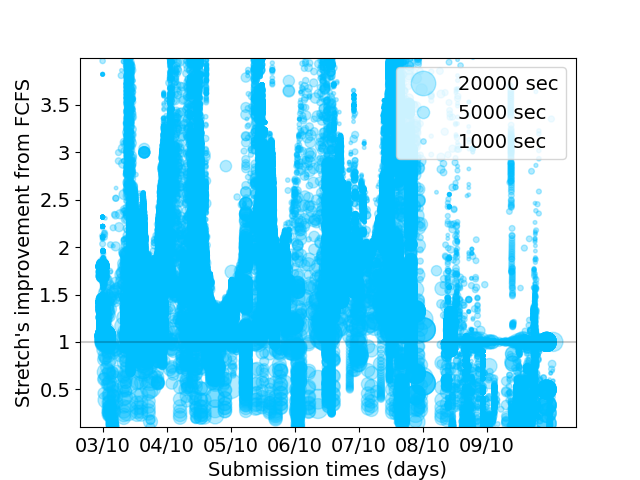
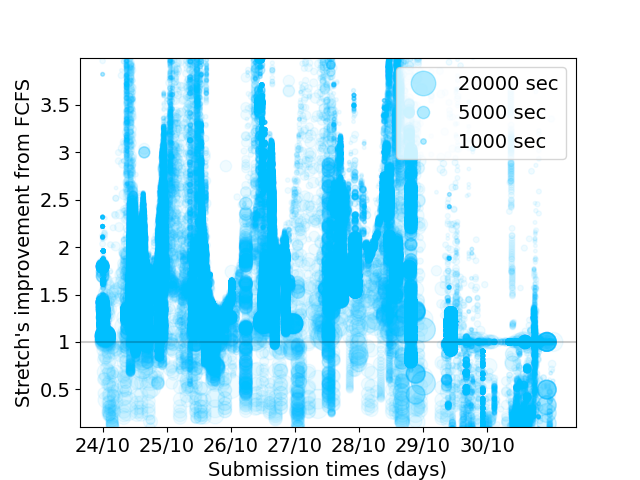
lower alpha and a few minor corrections in the paper

Changed region(s): [[0.0938, 0.125, 0.9062, 0.9688], [0.6875, 0.125, 0.7188, 0.1562]]

diff --git a/ICPP/batch-scheduling-paper.tex b/ICPP/batch-scheduling-paper.tex
@@ -50,13 +50,13 @@
 \newcommand{\evict}{\ensuremath{\mathcal{V}}\xspace}
 \newcommand{\nbloads}{\ensuremath{\mathit{\mathit{Loads}}}\xspace}
 \newcommand{\live}{\ensuremath{L}\xspace}
-\newcommand{\us}{\ensuremath{\mathit{user's~session}}\xspace}
+\newcommand{\us}{\ensuremath{\mathit{user~session}}\xspace}
 \renewcommand{\algorithmicrequire}{\textbf{Input:}}
 \renewcommand{\algorithmicensure}{\textbf{Output:}}
 
 \begin{document}
 
-\title{Locality-aware batch scheduling of I/O intensive workloads\todo[inline]{Max: Same title?}}
+\title{Locality-aware batch scheduling of I/O intensive workloads}
 
 \begin{abstract}
   Clusters make use of workload schedulers such as
@@ -83,7 +83,7 @@
   keeping data in local memory between successive jobs and using data
   locality information to schedule jobs allows a reduction in job
   waiting time and a drastic decrease in the amount of data transfers.
-\todo[inline]{Max: Can we keep the same abstract?}
+
   %%%% Longer version below:
   %   Clusters and supercomputers make use of workload schedulers such as
   % the Slurm Workload Manager or OAR to allocate computing jobs onto nodes. These schedulers
@@ -404,7 +404,7 @@ The stretch represents the slow-down of a job due to sharing the
 platform with other jobs. Considering the stretch
 allows to better aggregate performance from small and large jobs.
 
-\todo[inline]{Max: I define \us here (do we want a macro like that for it?):}
+\todo[inline]{Max: Do we want the macro \us for user sessions?}
 \rev{
 Finally, what is important for a user is that all the jobs he has submitted at once
 are finished as soon as possible. Thus we introduce the notion of \us. A \us is the sum of the stretch of jobs submitted by a user over a short period of time. It is the stretch of each \us that will be used in the Figures of Section~\ref{sec.evaluations}.
@@ -755,7 +755,7 @@ it is very unlikely that two users using the same file submit jobs at the same t
 
 We consider that these jobs are dedicated to processing their input
 file. Hence, the more cores the job requests, 
-the larger its input file. This allows to compute the size of files as follows:
+the larger its input file. This allows to estimate the size of files as follows:
 $$\size(\file(i)) =\frac{\core(J_i)}{20} \times 128GB$$
 \rev{Indeed, if a user needs 128GB of memory for example, but only requests 1 core out of the 20 available, he is blocking the machine for all the other users. Consequently, it's more efficient for a user who needs all the memory of a machine to reserves all the cores of the machine. And similarly if a user needs a fraction of the memory, he can reserves a fraction of the machine's cores. 
 A node can thus contain multiple different files. Thus the scheduling strategy cannot be 

diff --git a/MBSS/src/plot_queue_times.py b/MBSS/src/plot_queue_times.py
@@ -88,8 +88,14 @@ else:
 	ax.set_ylim(0.1,4)
 
 ax.set_xticks([job_list_algo_reference[0].subtime, job_list_algo_reference[0].subtime + 86400, job_list_algo_reference[0].subtime + 86400*2, job_list_algo_reference[0].subtime + 86400*3, job_list_algo_reference[0].subtime + 86400*4, job_list_algo_reference[0].subtime + 86400*5, job_list_algo_reference[0].subtime + 86400*6])
-ax.set_xticklabels(["03/10", "04/10", "05/10", "06/10", "07/10", "08/10", "09/10"], fontsize=font_size)
 
+if sys.argv[5] == "2022-10-24->2022-10-30_V10000_anonymous":
+	ax.set_xticklabels(["24/10", "25/10", "26/10", "27/10", "28/10", "29/10", "30/10"], fontsize=font_size)
+elif sys.argv[5] == "2022-10-03->2022-10-09_V10000_anonymous":
+	ax.set_xticklabels(["03/10", "04/10", "05/10", "06/10", "07/10", "08/10", "09/10"], fontsize=font_size)
+else:
+	ax.set_xticklabels(["/", "/", "/", "/", "/", "/", "/", "/", "/", "/"], fontsize=font_size)
+	
 ax.axhline(y = 1, color = 'black', linestyle = '-', alpha=0.2)
 
 # Couleur en fonction de la stratégie
@@ -111,7 +117,7 @@ else:
 # ~ ax.scatter(x, y, c=data_size, s=sizes, alpha=0.3)
 
 # Couleur en fonction de la stratégie
-ax.scatter(x, y, color=color_choosen, s=sizes, alpha=0.3)
+ax.scatter(x, y, color=color_choosen, s=sizes, alpha=0.06)
 # ~ print(sizes)
 
 # ~ circles = [Line2D([0], [0], marker='o', color=color_choosen, label='20000 sec', markerfacecolor=color_choosen, markersize=(sqrt(20000)/2)/4, alpha=0.3, linestyle="None"),
